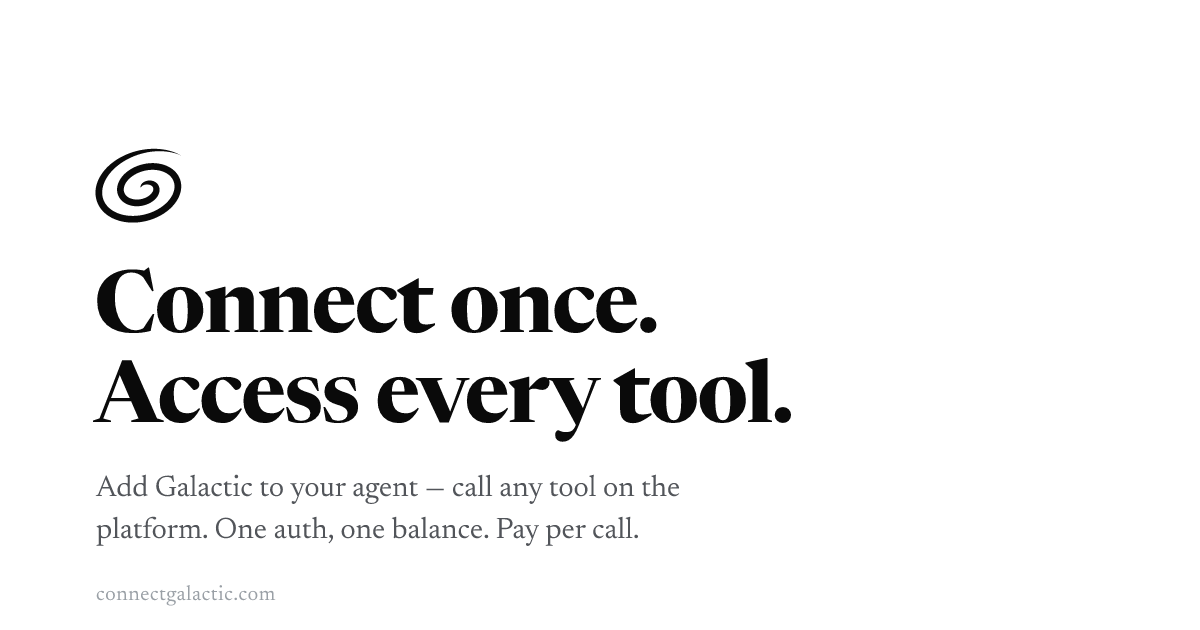
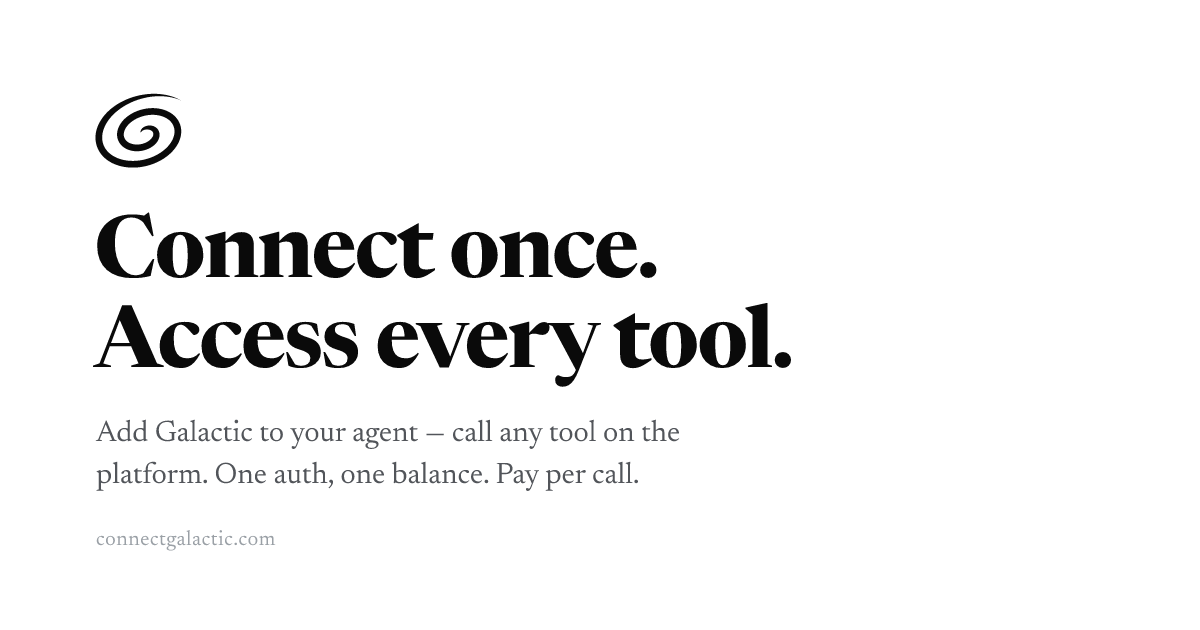
launch-web: share-card title "Galactic" + vertically center card content
- og:title / twitter:title now "Galactic" (the bold line iMessage shows
  under the card) instead of the headline, which already lives in the image
- og.svg: shift the icon+headline+copy+url block up ~55px so top and bottom
  margins are even; regenerated og.png

Changed region(s): [[0.0617, 0.1508, 0.6783, 0.8746], [0.0925, 0.9349, 0.2467, 0.9651]]

diff --git a/apps/launch-web/index.html b/apps/launch-web/index.html
@@ -12,7 +12,7 @@
          (1200x630) — keep public/og.png in sync when og.svg changes. -->
     <meta property="og:type" content="website" />
     <meta property="og:site_name" content="Galactic" />
-    <meta property="og:title" content="Connect once. Access every tool." />
+    <meta property="og:title" content="Galactic" />
     <meta
       property="og:description"
       content="Add Galactic to your agent — call any tool on the platform. One auth, one balance. Pay per call."
@@ -22,7 +22,7 @@
     <meta property="og:image:width" content="1200" />
     <meta property="og:image:height" content="630" />
     <meta name="twitter:card" content="summary_large_image" />
-    <meta name="twitter:title" content="Connect once. Access every tool." />
+    <meta name="twitter:title" content="Galactic" />
     <meta
       name="twitter:description"
       content="Add Galactic to your agent — call any tool on the platform. One auth, one balance. Pay per call."